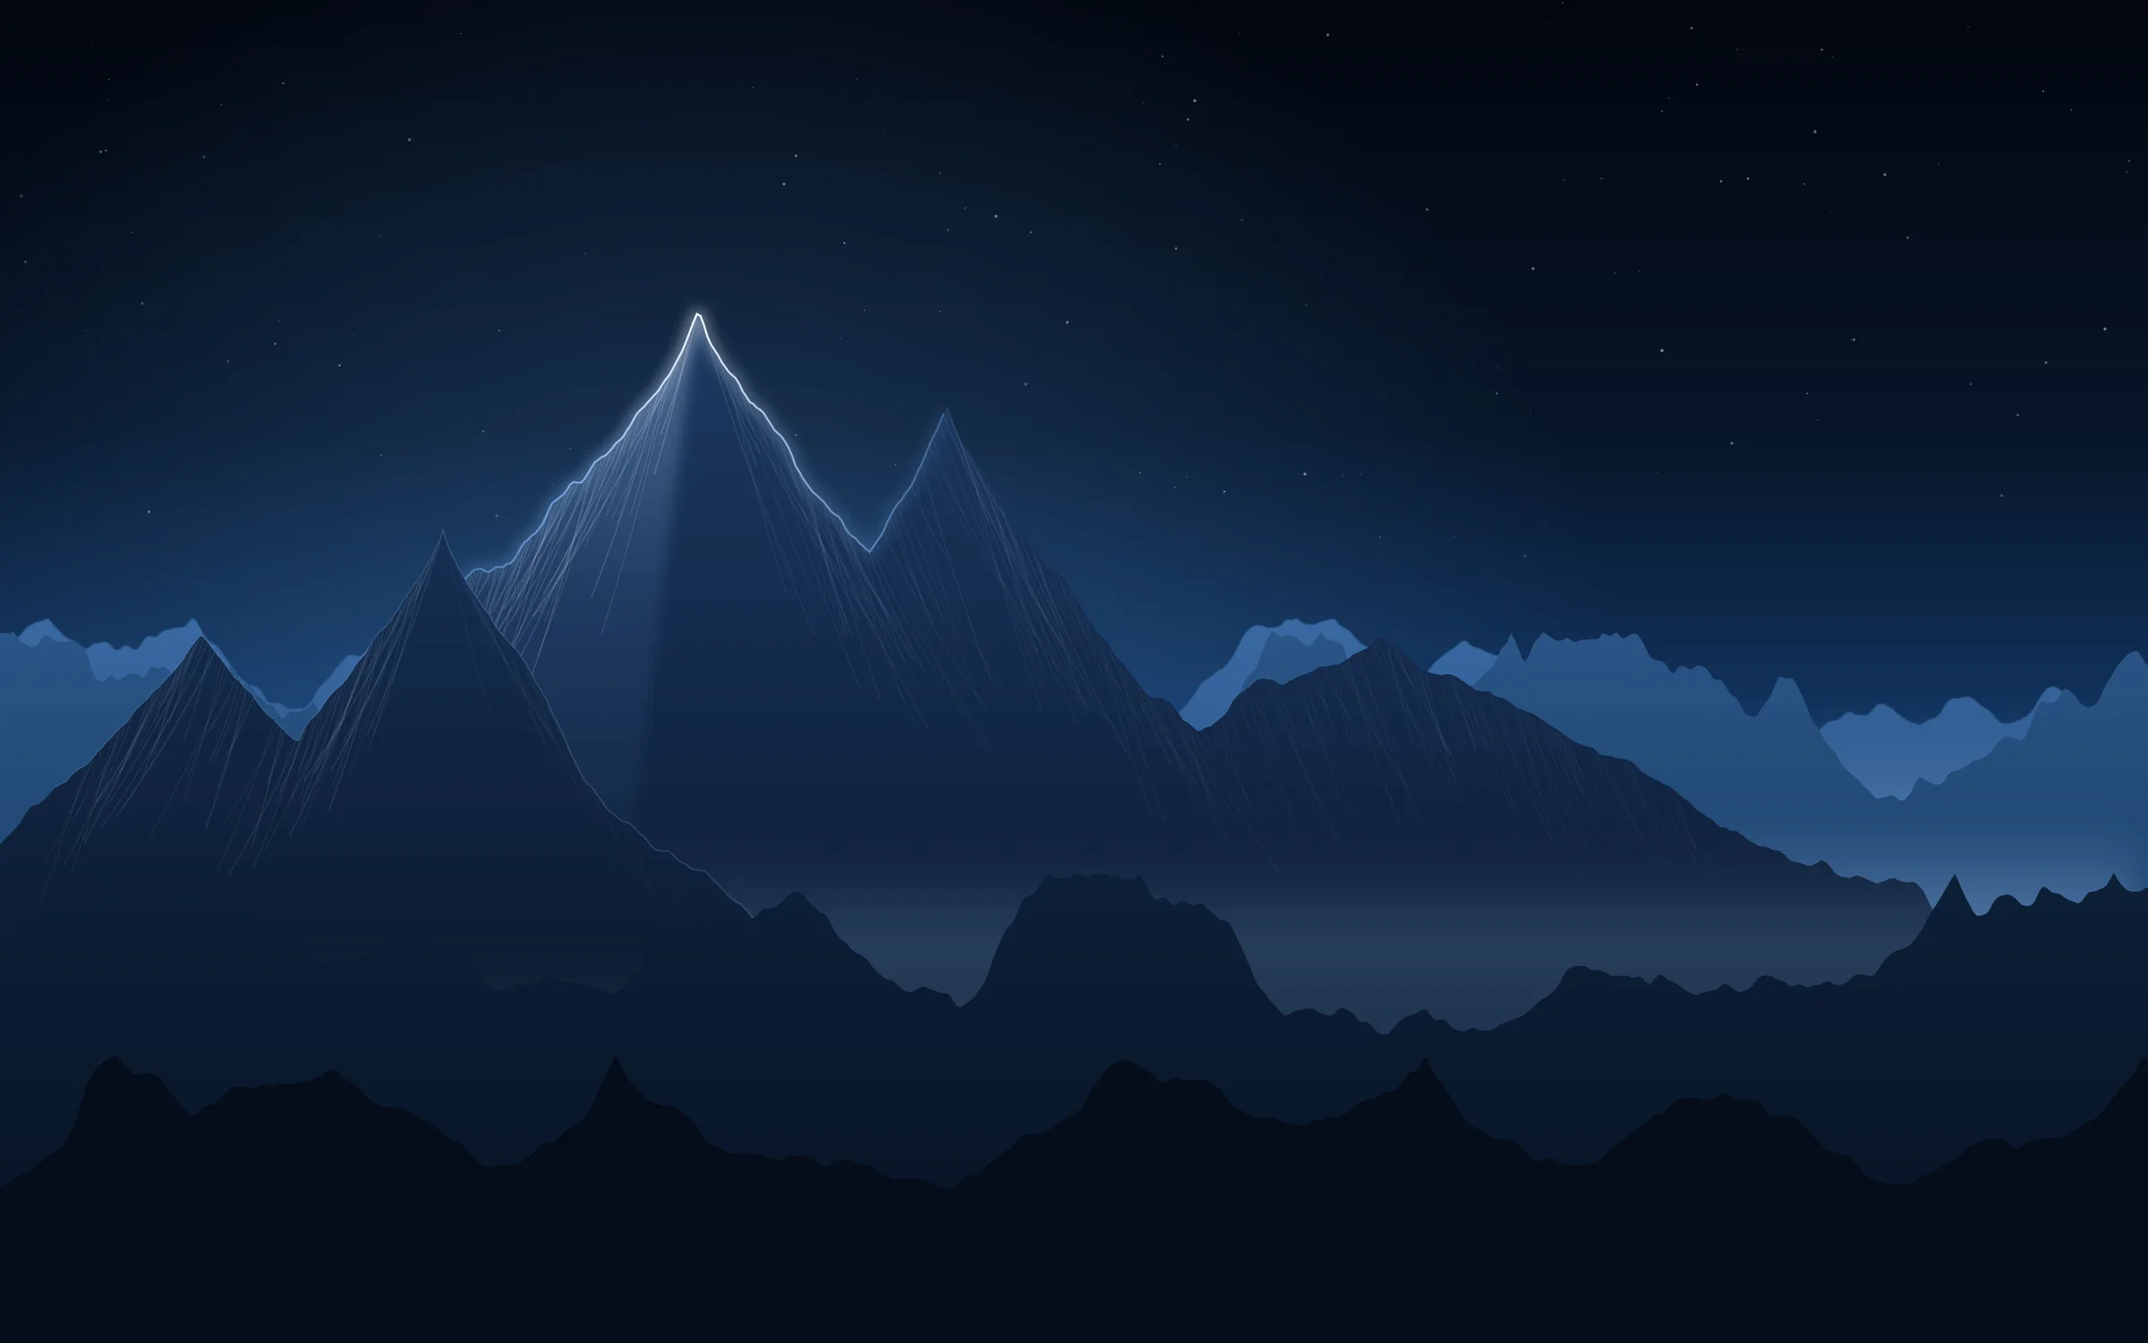
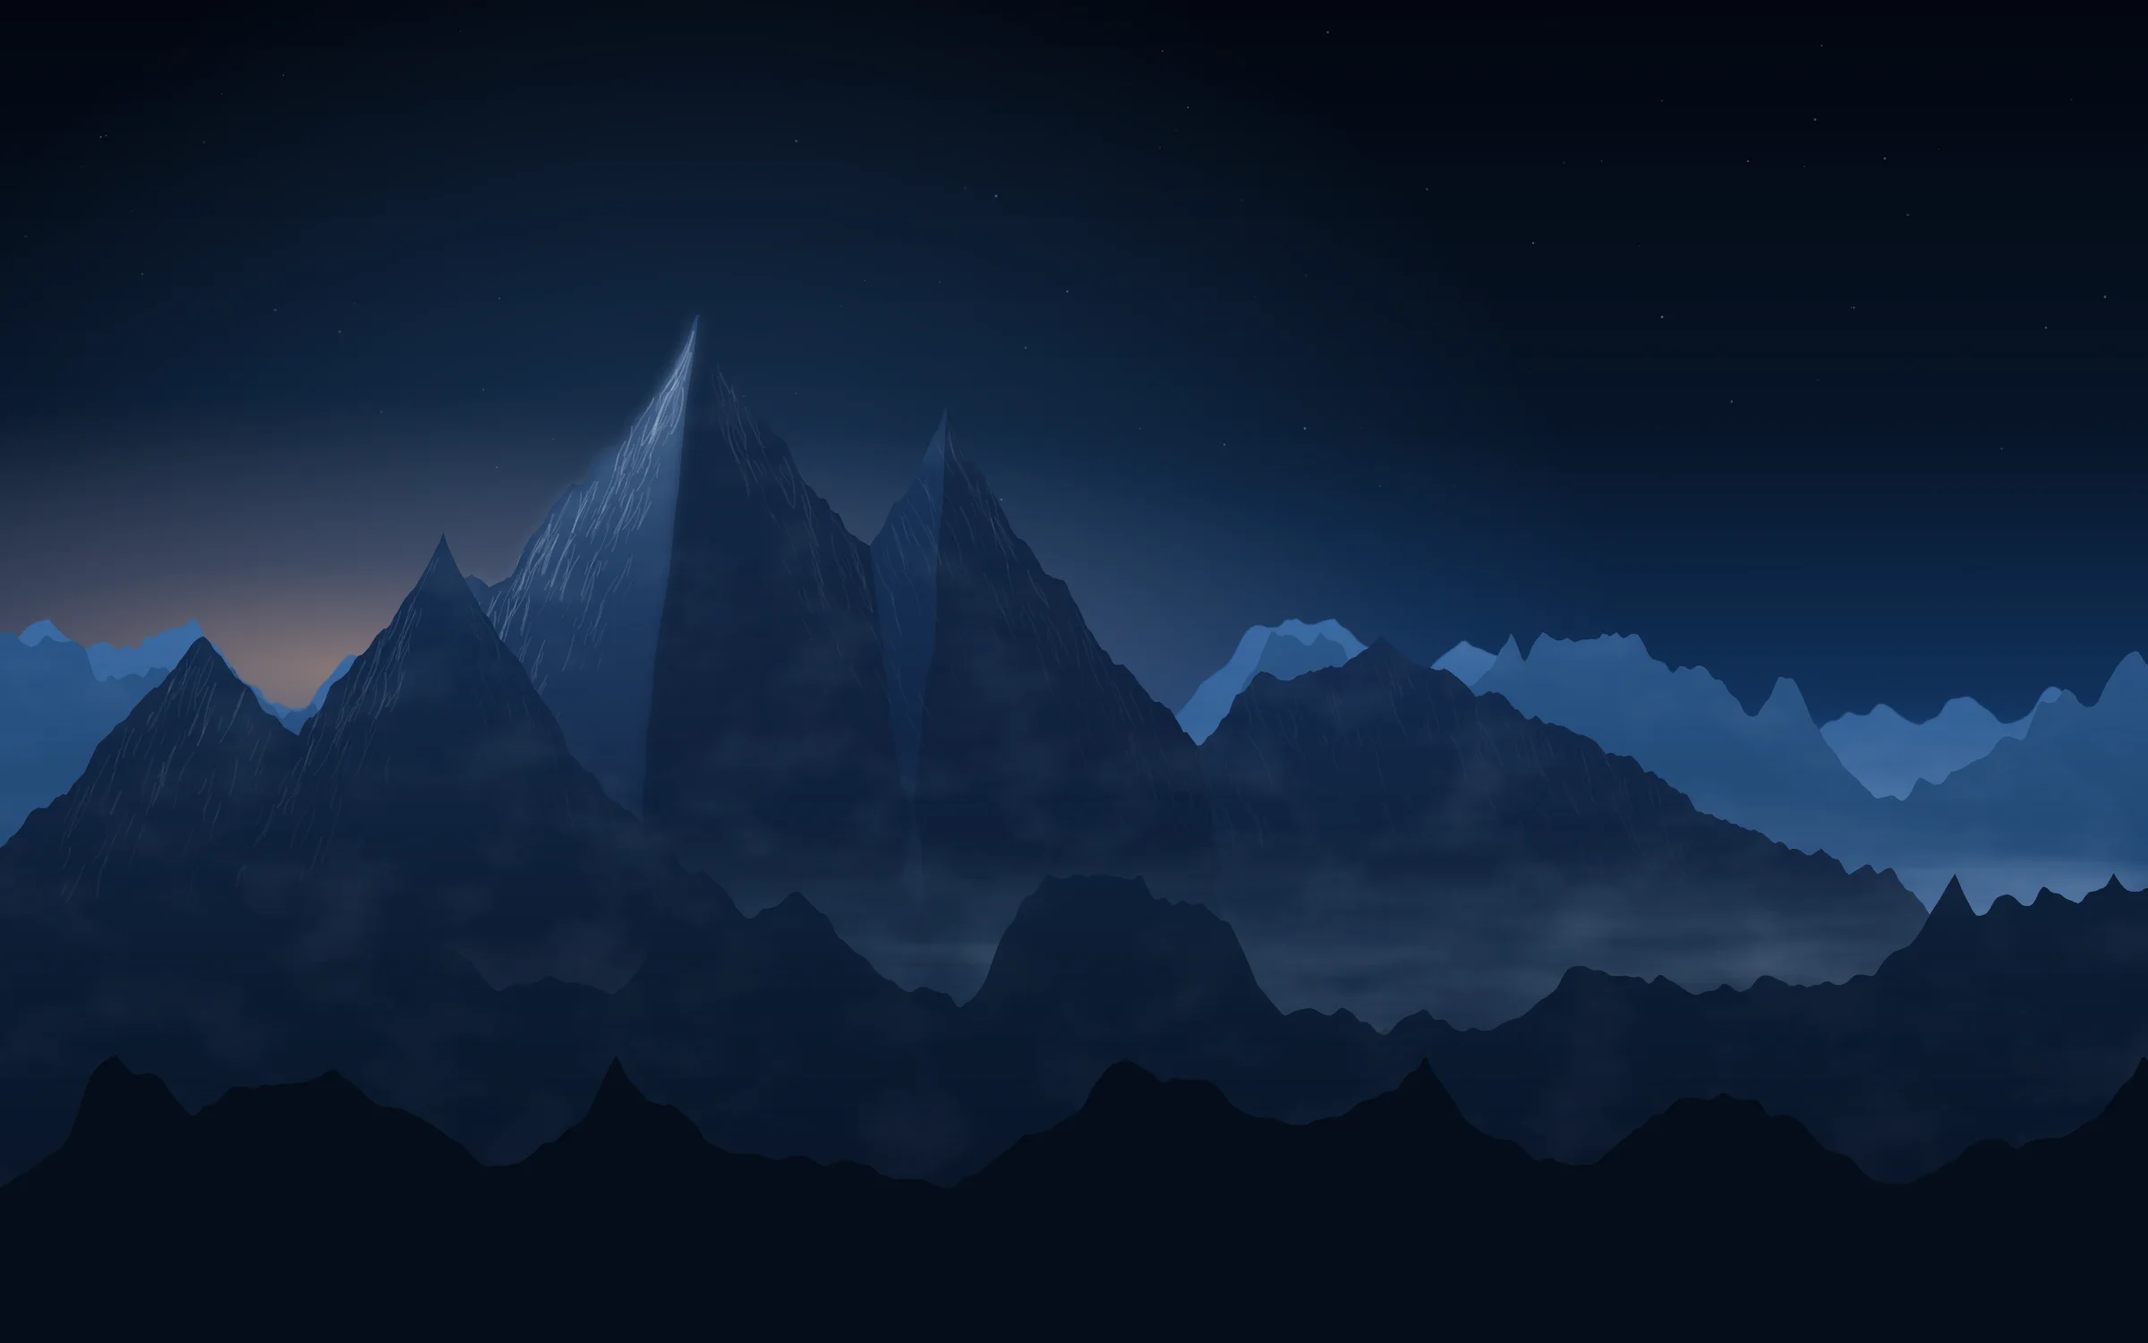
Agreement page: a more lifelike Everest, visible glass, the client's name at the summit
- Same scene, more real: slopes stepped and broken, light and shade meeting
  along wandering folds, faint rock grain, short snow marks in the couloirs,
  wisps of fog, a peach glow at the horizon and a film grain; no glowing
  ridge line
- A fine glint runs the summit ridge now and then: a hairline seen only
  where a soft spot of light passes, so it tapers at both ends
- The client's name (from the link) sits in a tag above the summit, with a
  dip at its foot and a fine arrow down onto the top, in a breathing halo
- The form's panel is visibly frosted glass, still dark, with a sheen

diff --git a/web/src/app/start/Shell.tsx b/web/src/app/start/Shell.tsx
@@ -1,24 +1,25 @@
 import Image from "next/image";
 import { FileText, PenLine, UserRound, type LucideIcon } from "lucide-react";
-import { SCENE, SUMMIT_RIDGE } from "./everestRidge";
+import { SCENE, SUMMIT, SUMMIT_RIDGE } from "./everestRidge";
 
-// The frame every /start page sits in, over Everest before dawn: the
-// mountain fills the screen (the goal we help clients reach: the top), and
-// a glass card sits on it in two even halves. On the left, a clear window
-// onto the peak and how this works (desktop only); on the right, the page
-// itself on dark frosted glass that blurs the range behind it. step: where
-// the client is, lit on the left.
+// The frame every /start page sits in, over Everest at blue hour: the
+// mountain fills the screen (the goal we help clients reach: the top), with
+// the client's own name at the summit, and a glass card sits on it in two
+// even halves. On the left, a clear window onto the peak and how this works
+// (desktop only); on the right, the page itself on dark frosted glass that
+// blurs the range behind it. step: where the client is, lit on the left;
+// name: what we called them when the link was made.
 const STEPS: { Icon: LucideIcon; title: string; body: string }[] = [
   { Icon: UserRound, title: "Your details", body: "Who you are, and who signs." },
   { Icon: FileText, title: "Your agreement", body: "We prepare it from what you share." },
   { Icon: PenLine, title: "Sign online", body: "Adobe emails it to you to sign securely." },
 ];
 
-export function Shell({ children, step = 1 }: { children: React.ReactNode; step?: 1 | 2 | 3 | 4 }) {
+export function Shell({ children, step = 1, name }: { children: React.ReactNode; step?: 1 | 2 | 3 | 4; name?: string | null }) {
   return (
     <div className="relative flex min-h-dvh w-full items-stretch justify-center bg-background text-foreground lg:items-center lg:p-10">
-      <Scene />
-      <div className="relative flex w-full max-w-[1120px] rounded-none border-white/10 bg-[#050a12]/30 shadow-[0_40px_120px_-30px_rgba(0,0,0,0.8)] lg:min-h-[640px] lg:rounded-[28px] lg:border lg:p-2.5">
+      <Scene name={name} />
+      <div className="relative flex w-full max-w-[1120px] rounded-none border-white/[0.12] bg-white/[0.02] shadow-[0_40px_120px_-30px_rgba(0,0,0,0.8),inset_0_1px_0_rgba(255,255,255,0.06)] lg:min-h-[640px] lg:rounded-[28px] lg:border lg:p-2.5">
         {/* the window: nothing between the peak and the eye but a shade
             at the foot, so the words there read */}
         <aside className="relative hidden w-1/2 shrink-0 flex-col overflow-hidden rounded-[20px] border border-white/[0.08] bg-gradient-to-b from-transparent from-45% to-[#040810]/85 p-9 lg:flex">
@@ -58,28 +59,33 @@ export function Shell({ children, step = 1 }: { children: React.ReactNode; step?
           <p className="relative mt-10 text-xs text-muted/70">Easeus Media: Your New Age Media Distribution Partner.</p>
         </aside>
 
-        {/* dark frosted glass: the range goes soft behind the form */}
-        <div className="flex min-w-0 flex-1 flex-col bg-[#080c13]/80 px-6 py-8 backdrop-blur-2xl sm:px-10 lg:ml-2.5 lg:rounded-[20px] lg:border lg:border-white/[0.06] lg:px-12 lg:py-12">
+        {/* dark frosted glass: the range goes soft behind the form, lit
+            faintly along its top edge like a pane */}
+        <div className="relative flex min-w-0 flex-1 flex-col overflow-hidden bg-gradient-to-br from-[#101a2b]/60 via-[#0a111d]/64 to-[#05080e]/70 px-6 py-8 shadow-[inset_0_1px_0_rgba(255,255,255,0.1)] backdrop-blur-[24px] backdrop-saturate-[1.8] sm:px-10 lg:ml-2.5 lg:rounded-[20px] lg:border lg:border-white/[0.12] lg:px-12 lg:py-12">
+          {/* the sheen a pane of glass catches, top left */}
+          <div aria-hidden className="pointer-events-none absolute inset-0 bg-[radial-gradient(120%_60%_at_0%_0%,rgba(255,255,255,0.07),transparent_60%)]" />
           {/* on a phone the left side is gone, so the name comes along here */}
-          <div className="mb-10 flex items-center gap-2 lg:hidden">
+          <div className="relative mb-10 flex items-center gap-2 lg:hidden">
             <Image src="/logo.png" alt="" width={18} height={18} className="h-[18px] w-[18px] object-contain" priority />
             <span className="text-[13px] font-medium tracking-tight">Easeus Media</span>
           </div>
-          <div className="mx-auto flex w-full max-w-[480px] flex-1 flex-col justify-center">{children}</div>
+          <div className="relative mx-auto flex w-full max-w-[480px] flex-1 flex-col justify-center">{children}</div>
         </div>
       </div>
     </div>
   );
 }
 
-// Everest before dawn, filling the screen (public/start/everest.webp, drawn
-// by scripts/everest-scene.mjs), with a little life on top in the same
-// frame so it lines up with the ridge: the light behind the summit breathes
-// and a glint now and then travels the ridge over the top (globals.css,
-// .ev-*; still for anyone who's asked for less motion). The summit sits in
-// the left third, where the card's window is.
-function Scene() {
+// Everest at blue hour, filling the screen (public/start/everest.webp,
+// rendered by scripts/everest-render.py), with in the same frame so they
+// line up: the client's name at the summit, pointing at the top, a halo
+// behind it; and now and then a fine glint of light running the ridge, a
+// hairline seen only where a soft spot of light passes, so it fades in and
+// out at both ends (globals.css, .ev-*; still for reduced motion). The
+// summit sits in the left third, where the card's window is.
+function Scene({ name }: { name?: string | null }) {
   const { width, height } = SCENE;
+  const label = name?.trim();
   return (
     <svg
       aria-hidden
@@ -88,19 +94,42 @@ function Scene() {
       className="pointer-events-none fixed inset-0 h-full w-full"
     >
       <defs>
-        <radialGradient id="sc-glow" cx="520" cy="300" r="260" gradientUnits="userSpaceOnUse">
-          <stop offset="0" stopColor="#9cc8ff" stopOpacity="0.28" />
+        <radialGradient id="sc-spot">
+          <stop offset="0" stopColor="#fff" />
+          <stop offset="1" stopColor="#fff" stopOpacity="0" />
+        </radialGradient>
+        <mask id="sc-glint" maskUnits="userSpaceOnUse" x="0" y="0" width={width} height={height}>
+          <circle r="55" fill="url(#sc-spot)">
+            <animateMotion dur="12s" begin="2s" repeatCount="indefinite" path={SUMMIT_RIDGE} keyPoints="0;1;1" keyTimes="0;0.55;1" calcMode="linear" />
+            <animate attributeName="opacity" dur="12s" begin="2s" repeatCount="indefinite" values="0;1;1;0;0" keyTimes="0;0.1;0.45;0.55;1" />
+          </circle>
+        </mask>
+        <radialGradient id="sc-halo">
+          <stop offset="0" stopColor="#7db3f2" stopOpacity="0.45" />
+          <stop offset="0.5" stopColor="#4b95e6" stopOpacity="0.14" />
           <stop offset="1" stopColor="#4b95e6" stopOpacity="0" />
         </radialGradient>
-        <filter id="sc-soft" x="-20%" y="-50%" width="140%" height="200%">
-          <feGaussianBlur stdDeviation="5" />
-        </filter>
       </defs>
       <image href="/start/everest.webp" width={width} height={height} />
-      <circle cx="520" cy="300" r="260" fill="url(#sc-glow)" className="ev-dawn" style={{ mixBlendMode: "screen" }} />
-      {/* the glint: a short bright stretch of the ridge, carried over the summit */}
-      <path d={SUMMIT_RIDGE} pathLength={1} fill="none" stroke="#dcebff" strokeWidth="8" strokeLinecap="round" strokeDasharray="0.06 0.94" filter="url(#sc-soft)" className="ev-sweep" />
-      <path d={SUMMIT_RIDGE} pathLength={1} fill="none" stroke="#f4f8ff" strokeWidth="2" strokeLinecap="round" strokeDasharray="0.03 0.97" className="ev-sweep" />
+      <path d={SUMMIT_RIDGE} fill="none" stroke="#eef5ff" strokeWidth="0.9" strokeLinejoin="round" mask="url(#sc-glint)" className="ev-glint" />
+      {label && (
+        // the client's name at the top: a tag with a dip at the foot, and from
+        // it a fine arrow down onto the summit, in a soft halo
+        <g transform={`translate(${SUMMIT.x} ${SUMMIT.y})`}>
+          <ellipse cx="0" cy="-50" rx="120" ry="60" fill="url(#sc-halo)" className="ev-halo" />
+          <line x1="0" y1="-34" x2="0" y2="-5" stroke="#dcebff" strokeOpacity="0.75" strokeWidth="0.8" />
+          <path d="M-3 -9 L0 -4.5 L3 -9" fill="none" stroke="#dcebff" strokeOpacity="0.85" strokeWidth="0.8" strokeLinecap="round" strokeLinejoin="round" />
+          <foreignObject x="-200" y="-72" width="400" height="48">
+            <div className="flex h-full items-start justify-center">
+              <div className="relative rounded-full border border-white/25 bg-[#0a1322]/55 px-4 py-1.5 text-[15px] font-medium tracking-tight whitespace-nowrap text-white shadow-[0_6px_24px_rgba(0,0,0,0.35),0_0_24px_rgba(75,149,230,0.35)] backdrop-blur-md">
+                {label}
+                {/* the dip: the tag's foot, pointing down */}
+                <span className="absolute -bottom-[5px] left-1/2 size-2.5 -translate-x-1/2 rotate-45 border-r border-b border-white/25 bg-[#0a1322]" />
+              </div>
+            </div>
+          </foreignObject>
+        </g>
+      )}
     </svg>
   );
 }

diff --git a/web/src/app/start/everestRidge.ts b/web/src/app/start/everestRidge.ts
@@ -1,4 +1,5 @@
 // Written by scripts/everest-scene.mjs: the ridge around the summit in
 // public/start/everest.webp (viewBox 0 0 1600 1000), for the glint that travels it.
 export const SCENE = { width: 1600, height: 1000 };
-export const SUMMIT_RIDGE = "M338.0 443.6 L340.6 440.1 L343.3 436.1 L345.9 431.9 L348.5 429.0 L351.1 426.1 L353.8 424.2 L356.4 423.6 L359.0 423.9 L361.6 425.4 L364.3 426.0 L366.9 424.1 L369.5 422.4 L372.1 422.3 L374.8 422.3 L377.4 420.0 L380.0 419.6 L382.6 417.0 L385.3 412.7 L387.9 408.0 L390.5 404.0 L393.1 402.1 L395.8 399.1 L398.4 397.4 L401.0 394.5 L403.6 390.8 L406.3 385.7 L408.9 379.3 L411.5 374.4 L414.1 372.5 L416.7 370.5 L419.4 368.5 L422.0 365.3 L424.6 360.9 L427.3 358.9 L429.9 359.4 L432.5 359.4 L435.1 357.0 L437.8 352.8 L440.4 348.4 L443.0 344.2 L445.6 342.4 L448.3 340.3 L450.9 339.3 L453.5 336.7 L456.1 333.7 L458.8 330.1 L461.4 328.0 L464.0 325.5 L466.6 321.0 L469.2 317.4 L471.9 312.5 L474.5 307.9 L477.1 305.2 L479.8 302.8 L482.4 299.7 L485.0 296.9 L487.6 294.0 L490.3 291.1 L492.9 286.9 L495.5 283.0 L498.1 279.9 L500.8 275.3 L503.4 270.2 L506.0 265.4 L508.6 260.4 L511.3 253.7 L513.9 246.9 L516.5 239.9 L519.1 233.8 L521.8 235.3 L524.4 242.2 L527.0 250.9 L529.6 256.4 L532.3 260.7 L534.9 264.6 L537.5 269.5 L540.1 273.1 L542.8 276.9 L545.4 279.3 L548.0 281.6 L550.6 285.8 L553.3 291.4 L555.9 295.3 L558.5 299.3 L561.1 300.8 L563.8 303.6 L566.4 305.2 L569.0 307.7 L571.6 311.9 L574.3 316.1 L576.9 320.3 L579.5 322.6 L582.1 325.0 L584.8 328.9 L587.4 333.4 L590.0 339.2 L592.6 346.9 L595.3 351.1 L597.9 355.9 L600.5 359.8 L603.1 363.3 L605.8 366.7 L608.4 368.9 L611.0 371.3 L613.6 373.7 L616.3 377.3 L618.9 380.7 L621.5 382.8 L624.1 384.3 L626.8 387.4 L629.4 392.8 L632.0 396.7 L634.6 399.2 L637.3 400.8 L639.9 404.1 L642.5 406.3 L645.1 408.8 L647.8 411.0 L650.4 407.2 L653.0 403.3 L655.6 399.8 L658.3 395.2 L660.9 389.0 L663.5 383.9 L666.1 378.8 L668.8 374.8 L671.4 372.4 L674.0 368.2 L676.6 364.8 L679.3 360.7 L681.9 355.3 L684.5 349.2 L687.1 344.4 L689.8 337.6 L692.4 331.1 L695.0 325.2 L697.6 320.5 L700.3 314.4 L702.9 307.8";
+export const SUMMIT = { x: 519.1, y: 234.2 };
+export const SUMMIT_RIDGE = "M338.0 439.7 L340.6 436.9 L343.3 434.6 L345.9 430.8 L348.5 429.6 L351.1 427.7 L353.8 429.6 L356.4 430.5 L359.0 432.2 L361.6 434.5 L364.3 437.6 L366.9 436.0 L369.5 434.6 L372.1 433.5 L374.8 432.8 L377.4 430.3 L380.0 430.0 L382.6 426.6 L385.3 421.5 L387.9 413.8 L390.5 408.1 L393.1 403.7 L395.8 399.0 L398.4 396.6 L401.0 393.9 L403.6 390.8 L406.3 386.6 L408.9 381.2 L411.5 376.8 L414.1 374.0 L416.7 371.7 L419.4 368.5 L422.0 365.9 L424.6 361.8 L427.3 360.1 L429.9 361.3 L432.5 361.5 L435.1 359.5 L437.8 356.4 L440.4 351.0 L443.0 344.8 L445.6 342.4 L448.3 339.6 L450.9 338.0 L453.5 336.8 L456.1 335.9 L458.8 332.6 L461.4 331.2 L464.0 330.6 L466.6 326.4 L469.2 322.4 L471.9 317.7 L474.5 310.7 L477.1 308.2 L479.8 307.2 L482.4 304.0 L485.0 299.4 L487.6 295.3 L490.3 291.9 L492.9 287.2 L495.5 282.5 L498.1 280.3 L500.8 275.6 L503.4 269.3 L506.0 265.0 L508.6 261.2 L511.3 255.1 L513.9 248.0 L516.5 240.4 L519.1 234.2 L521.8 235.3 L524.4 242.0 L527.0 251.3 L529.6 256.6 L532.3 260.8 L534.9 264.8 L537.5 270.5 L540.1 275.1 L542.8 280.4 L545.4 282.2 L548.0 285.0 L550.6 288.9 L553.3 294.9 L555.9 298.0 L558.5 301.8 L561.1 303.6 L563.8 305.7 L566.4 306.5 L569.0 309.8 L571.6 314.7 L574.3 319.7 L576.9 323.3 L579.5 324.8 L582.1 326.0 L584.8 329.1 L587.4 333.8 L590.0 340.1 L592.6 347.3 L595.3 352.9 L597.9 356.9 L600.5 360.7 L603.1 362.0 L605.8 364.8 L608.4 369.0 L611.0 371.4 L613.6 370.5 L616.3 373.8 L618.9 379.6 L621.5 381.7 L624.1 382.0 L626.8 386.5 L629.4 393.0 L632.0 396.4 L634.6 398.1 L637.3 399.1 L639.9 401.9 L642.5 403.4 L645.1 404.9 L647.8 406.6 L650.4 402.8 L653.0 399.1 L655.6 396.0 L658.3 391.1 L660.9 385.1 L663.5 378.8 L666.1 374.4 L668.8 373.4 L671.4 372.1 L674.0 368.9 L676.6 365.1 L679.3 359.4 L681.9 353.2 L684.5 347.6 L687.1 343.0 L689.8 337.1 L692.4 330.8 L695.0 324.7 L697.6 321.2 L700.3 315.0 L702.9 307.1";

diff --git a/web/src/app/globals.css b/web/src/app/globals.css
@@ -677,62 +677,25 @@ dialog[open]::backdrop {
 }
 
 /* The agreement page's Everest (start/Shell.tsx). Slow on purpose: the
-   light behind the range rises as the page opens and then breathes; now
-   and then a glint travels up the ridge, over the summit and down. Both
-   still for anyone who's asked for less motion. */
-.ev-dawn {
-  animation:
-    ev-dawn-rise 5s cubic-bezier(0.22, 1, 0.36, 1) both,
-    ev-dawn-breathe 9s ease-in-out 5s infinite alternate;
+   halo behind the client's name at the summit breathes, and now and then a
+   fine glint runs the ridge (its motion is the SVG's own; this only hides
+   it). Both still for anyone who's asked for less motion. */
+.ev-halo {
+  animation: ev-halo 7s ease-in-out infinite alternate;
 }
-@keyframes ev-dawn-rise {
+@keyframes ev-halo {
   from {
-    opacity: 0;
-    transform: translateY(40px);
-  }
-  to {
-    opacity: 1;
-    transform: none;
-  }
-}
-@keyframes ev-dawn-breathe {
-  to {
     opacity: 0.7;
   }
-}
-.ev-sweep {
-  opacity: 0;
-  animation: ev-sweep 12s linear 2.5s infinite;
-}
-@keyframes ev-sweep {
-  0% {
-    stroke-dashoffset: 0.08;
-    animation-timing-function: cubic-bezier(0.45, 0, 0.55, 1);
-  }
-  55% {
-    stroke-dashoffset: -0.99;
-  }
-  100% {
-    stroke-dashoffset: -0.99;
-  }
-  0%,
-  100% {
-    opacity: 0;
-  }
-  6%,
-  48% {
+  to {
     opacity: 1;
-  }
-  55% {
-    opacity: 0;
   }
 }
 @media (prefers-reduced-motion: reduce) {
-  .ev-dawn {
+  .ev-halo {
     animation: none;
   }
-  .ev-sweep {
-    animation: none;
-    opacity: 0;
+  .ev-glint {
+    display: none;
   }
 }

diff --git a/web/src/app/start/[token]/page.tsx b/web/src/app/start/[token]/page.tsx
@@ -17,7 +17,7 @@ export const metadata: Metadata = {
 // — the link ops makes under Contracts. It works until the form is sent.
 export default async function StartPage({ params }: { params: Promise<{ token: string }> }) {
   const { token } = await params;
-  const contract = await prisma.contract.findUnique({ where: { token }, select: { status: true, details: true } });
+  const contract = await prisma.contract.findUnique({ where: { token }, select: { status: true, details: true, name: true } });
 
   if (!contract) {
     return (
@@ -41,7 +41,7 @@ export default async function StartPage({ params }: { params: Promise<{ token: s
           : `We have your details. Your agreement will be sent${to ? ` to ${to}` : ""} for e-signature shortly.`;
     return (
       // where they are: signed (every step done), sent (signing), or with us
-      <Shell step={contract.status === "signed" ? 4 : contract.status === "sent" ? 3 : 2}>
+      <Shell step={contract.status === "signed" ? 4 : contract.status === "sent" ? 3 : 2} name={contract.name}>
         <div className="fade-in flex flex-col items-start">
           <span className="badge-lit emerald flex size-11 items-center justify-center rounded-2xl">
             <Check size={20} />
@@ -55,7 +55,7 @@ export default async function StartPage({ params }: { params: Promise<{ token: s
   }
 
   return (
-    <Shell>
+    <Shell name={contract.name}>
       <IntakeForm token={token} />
     </Shell>
   );
